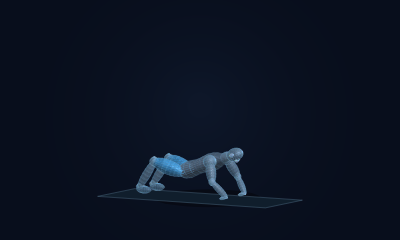
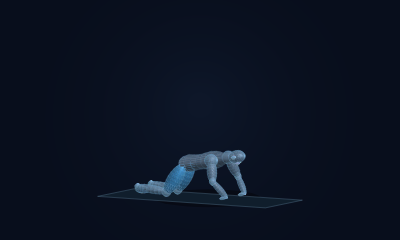
Correct exercise knee tracking and regenerate reviewed movement demos

Changed region(s): [[0.33, 0.6125, 0.63, 0.8167]]

diff --git a/resources/js/Support/exerciseApparatusRefinements.js b/resources/js/Support/exerciseApparatusRefinements.js
@@ -71,7 +71,7 @@ export function apparatusPose(pose, slug, phase) {
         pose.arms = pose.arms.map((a, i) => arm(a.shoulder, [sides[i] * .25, .065, -.37], sides[i], [sides[i], .2, .7]));
         pose.legs = sides.map((side, i) => {
             const drive = Math.max(0, Math.sin(tau * phase + i * Math.PI)) ** 2;
-            const hip = add(pose.pelvis, [side * .12, 0, 0]), angle = 1.15 - 2.20 * drive;
+            const hip = add(pose.pelvis, [side * .12, 0, 0]), angle = 1.0 - 2.05 * drive;
             const knee = add(hip, [0, -.43 * Math.cos(angle), .43 * Math.sin(angle)]);
             const ankleY = .08 + .06 * drive;
             const ankle = [hip[0], ankleY, knee[2] + Math.sqrt(.43 ** 2 - (knee[1] - ankleY) ** 2)];
@@ -120,11 +120,11 @@ export function apparatusPose(pose, slug, phase) {
         const [hipY, hipZ, tilt, ankleZ, ankleY, handY, handZ] = sample([
             [0, .94, 0, 0, .05, .08, .90, .05],
             [.12, .40, -.05, 1.25, .05, .08, .065, .55],
-            [.20, .62, -.16, 1.62, -.48, .20, .065, .55],
+            [.20, .68, -.16, 1.72, -.48, .20, .065, .55],
             [.28, .346, -.214, 1.245, -1.035, .08, .065, .55],
             [.39, .21, -.175, 1.46, -1.025, .08, .065, .55],
             [.50, .346, -.214, 1.245, -1.035, .08, .065, .55],
-            [.57, .62, -.16, 1.62, -.48, .20, .065, .55],
+            [.57, .68, -.16, 1.72, -.48, .20, .065, .55],
             [.64, .40, -.05, 1.25, .05, .08, .065, .55],
             [.78, 1.19, 0, 0, .05, .33, 2.22, .07],
             [.89, .80, -.06, .15, .05, .08, 1.15, .24],
